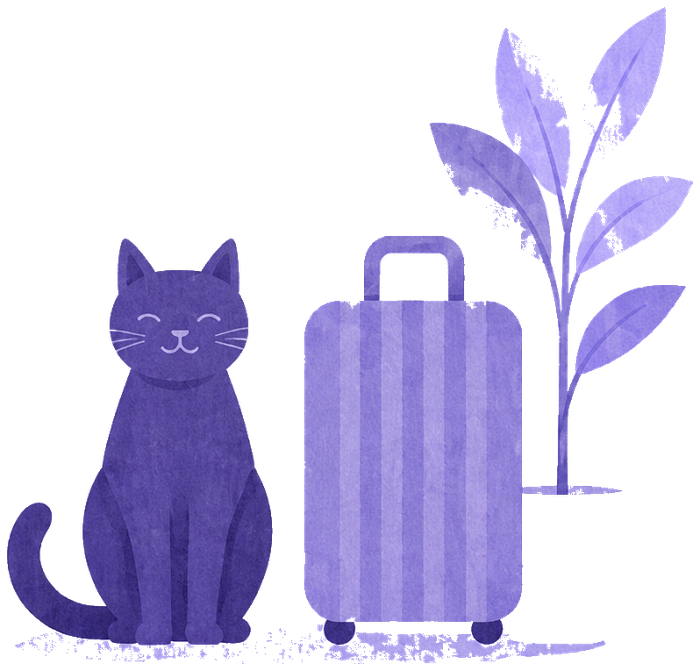
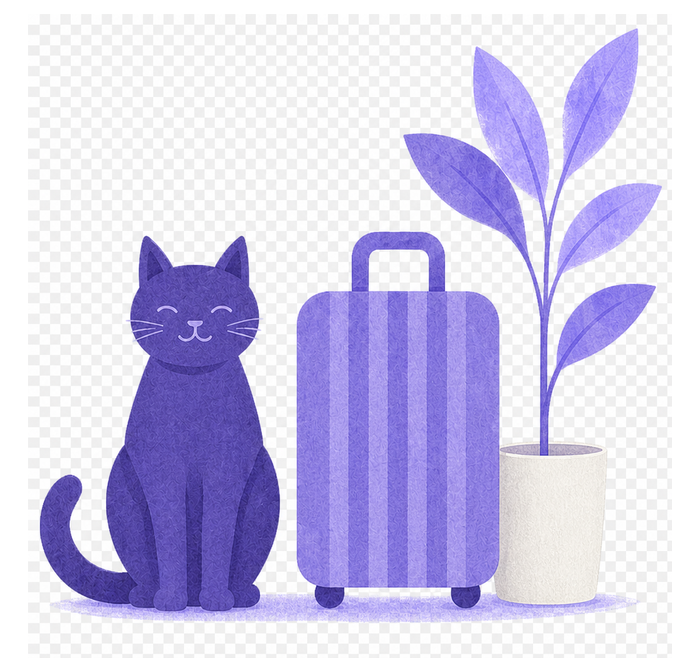
fix(pvm): кнопки не режут арт, горшки у растений
Арт выше полосы CTA (--pvm-art-clearance); на всех pvm-c-art растения в светлом горшке (art-c-v8).

Changed region(s): [[0.0, 0.0, 0.99, 1.0]]

diff --git a/frontend/app/assets/main.css b/frontend/app/assets/main.css
@@ -17172,6 +17172,9 @@ button.button {
   --pvm-tab-h: 38px;
   --pvm-radius: 28px;
   --pvm-pad-x: 8.2%;
+  /* Footer CTA row — арт всегда выше этой зоны, кнопки не режут иллюстрацию */
+  --pvm-nav-h: 52px;
+  --pvm-art-clearance: 72px;
   position: relative;
   display: flex;
   flex-direction: column;
@@ -17314,12 +17317,12 @@ button.button {
 
 .pvm-illust {
   position: absolute;
-  right: 0;
-  bottom: 2%;
+  right: 2%;
+  bottom: var(--pvm-art-clearance);
   z-index: 1;
-  width: min(64%, 255px);
+  width: min(56%, 220px);
   height: auto;
-  max-height: 40%;
+  max-height: 32%;
   object-fit: contain;
   object-position: right bottom;
   pointer-events: none;
@@ -17327,18 +17330,18 @@ button.button {
 }
 
 .pvm-illust--welcome {
-  width: min(72%, 285px);
-  max-height: 43%;
-  right: -3%;
-  bottom: 1%;
+  width: min(62%, 245px);
+  max-height: 34%;
+  right: 0;
+  bottom: var(--pvm-art-clearance);
 }
 
 .pvm-illust--intro {
-  width: min(76%, 295px);
-  max-height: 40%;
-  right: 4%;
+  width: min(66%, 255px);
+  max-height: 34%;
+  right: 6%;
   left: auto;
-  bottom: 8%;
+  bottom: var(--pvm-art-clearance);
   object-position: center bottom;
 }
 
@@ -17346,10 +17349,10 @@ button.button {
 .pvm-illust--fresh,
 .pvm-illust--weekend,
 .pvm-illust--triggers {
-  width: min(62%, 248px);
-  max-height: 38%;
-  right: -1%;
-  bottom: 3%;
+  width: min(54%, 210px);
+  max-height: 30%;
+  right: 0;
+  bottom: var(--pvm-art-clearance);
 }
 
 .pvm-kicker {
@@ -17406,7 +17409,7 @@ button.button {
 
 .pvm-card--welcome .pvm-copy {
   max-width: min(86%, 19.5rem);
-  padding-bottom: 16%;
+  padding-bottom: 8%;
 }
 
 .pvm-slide--intro .pvm-copy {
@@ -17426,7 +17429,7 @@ button.button {
 .pvm-slide--weekend .pvm-copy,
 .pvm-slide--triggers .pvm-copy {
   max-width: min(88%, 20.5rem);
-  padding-bottom: 12%;
+  padding-bottom: 4%;
 }
 
 .pvm-text {
@@ -17445,12 +17448,15 @@ button.button {
   position: relative;
   z-index: 3;
   margin-top: auto;
-  padding-top: 4px;
+  padding-top: 8px;
+  min-height: var(--pvm-nav-h);
   display: flex;
   align-items: center;
   justify-content: flex-start;
   gap: 14px 20px;
   flex-wrap: nowrap;
+  /* Отдельная полоса CTA: арт не заходит под кнопки */
+  isolation: isolate;
 }
 
 .pvm-nav__spacer {

diff --git a/frontend/app/data/postVacationMemoSlides.ts b/frontend/app/data/postVacationMemoSlides.ts
@@ -14,7 +14,7 @@ export type PostVacationMemoSlide = {
   laterCta?: string;
 };
 
-const ART_V = 'art-c-v7';
+const ART_V = 'art-c-v8';
 
 /** Первый экран: тепло, без акцента что выход = хандра. */
 export const POST_VACATION_WELCOME: PostVacationMemoSlide = {

diff --git a/docs/CHANGELOG.md b/docs/CHANGELOG.md
@@ -4,6 +4,12 @@
 
 ## 2026-08-26
 
+### Памятка Design C: кнопки не перекрывают арт + горшки
+- Layout: у `.pvm-illust` `bottom: var(--pvm-art-clearance)` (72px) — арт выше полосы CTA; уменьшены `max-height`/`width`, у `.pvm-nav` `min-height`. Кнопки Дальше/Спасибо/Прочитать не наезжают на кота/чемодан/растение.
+- Арт: на всех 6 `pvm-c-art-*.png` растения в белом/светлом горшке (как series-c). Cache-bust `?v=art-c-v8`.
+- Файлы: `main.css` (`.pvm-*`), `postVacationMemoSlides.ts`, `public/memos/pvm-c-art-*.png`.
+- Проверка: `http://45.12.74.25:8080/?pvm=1` (hard refresh) — welcome + intro + tip1–4. Прод не трогали.
+
 ### Памятка Design C: перенос переделан (арт + вёрстка)
 - Перенос Design C переделан: чистые сцены `pvm-c-art-*.png` (кот+пропсы, без текста в растре), UI в Vue.
 - Табы 1–5 декоративные (`pointer-events: none`): inactive — белый квадрат цифры, вокруг прозрачно; active — lavender + белая цифра, слит с карточкой.
